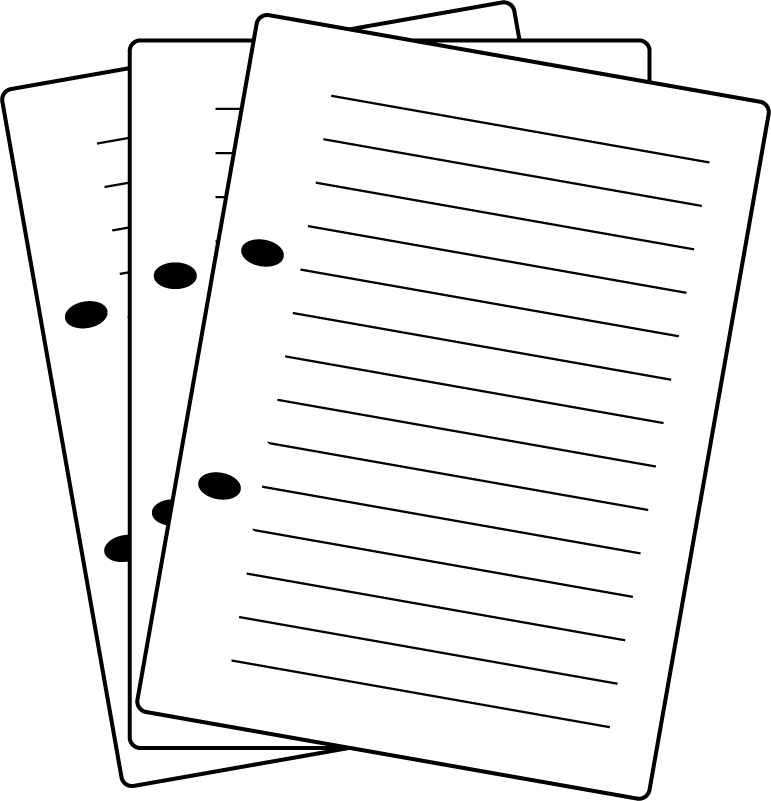
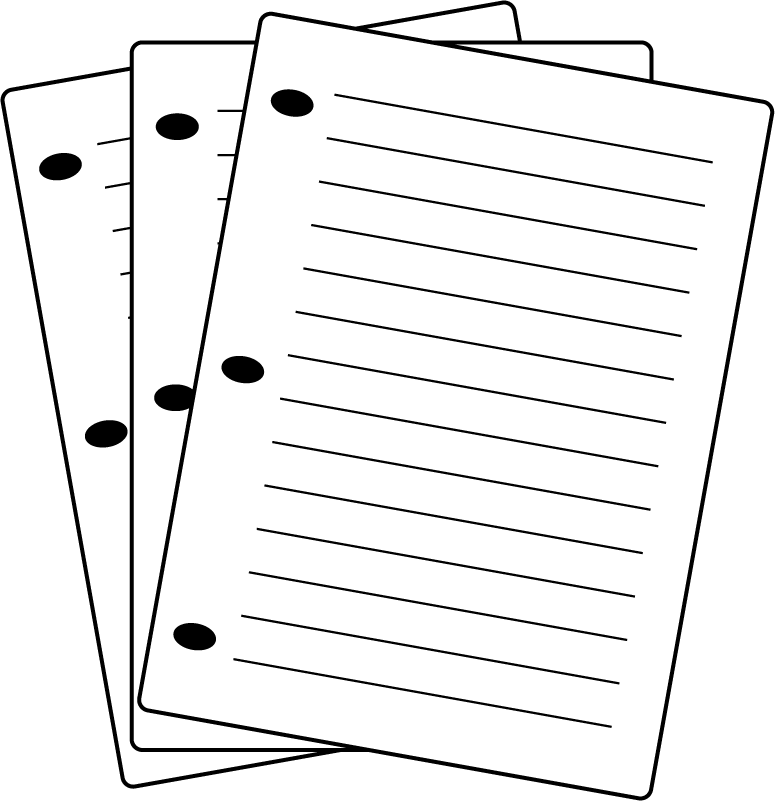
Completely fixed game to be a new resolution of 1440x960 instead of 1200x800.  Both work.

diff --git a/stable_items.py b/stable_items.py
@@ -661,12 +661,28 @@ class Stable_Items():
         """Function to draw the papers to the screen"""
 
         # Clickboxes
-        self.papers_page1_list = [(427, 49), (841, 121), (740, 681), (327, 607)]
-        self.papers_page2_list = [(322, 68), (743, 68), (743, 642), (322, 642)]
-        self.papers_page3_list = [(217, 110), (629, 37), (729, 596), (315, 673)]
-        #self.papers_page1_clickbox = pygame.draw.polygon(screen, gs.clickboxcolor, papers_page1_list, 1)
-        #self.papers_page2_clickbox = pygame.draw.polygon(screen, gs.clickboxcolor, papers_page2_list, 1)
-        #self.papers_page3_clickbox = pygame.draw.polygon(screen, gs.clickboxcolor, papers_page3_list, 1)
+        if gs.screen_width == 1200:
+            self.papers_page1_list = [(427, 49), (841, 121), (740, 681), (327, 607)]
+            self.papers_page2_list = [(322, 68), (743, 68), (743, 642), (322, 642)]
+            self.papers_page3_list = [(217, 110), (629, 37), (729, 596), (315, 673)]
+            self.papers_page1_clickbox = pygame.draw.polygon(screen, gs.clickboxcolor, self.papers_page1_list, 1)
+            self.papers_page2_clickbox = pygame.draw.polygon(screen, gs.clickboxcolor, self.papers_page2_list, 1)
+            self.papers_page3_clickbox = pygame.draw.polygon(screen, gs.clickboxcolor, self.papers_page3_list, 1)
+            x_spacing = 530
+            line_spacing = 150
+            line_spacing_3 = 95
+            x_spacing_3 = 325
+        else:
+            self.papers_page1_list = [(536, 125), (938, 198), (838, 748), (436, 675)]
+            self.papers_page2_list = [(431, 148), (839, 148), (842, 706), (432, 708)]
+            self.papers_page3_list = [(327, 189), (729, 117), (827, 664), (426, 736)]
+            self.papers_page1_clickbox = pygame.draw.polygon(screen, gs.red, self.papers_page1_list, 1)
+            self.papers_page2_clickbox = pygame.draw.polygon(screen, gs.red, self.papers_page2_list, 1)
+            self.papers_page3_clickbox = pygame.draw.polygon(screen, gs.red, self.papers_page3_list, 1)
+            x_spacing = 722
+            line_spacing = 220
+            line_spacing_3 = 172
+            x_spacing_3 = 425
 
         if gs.current_paper_in_view == 1:
             gs.text = 'What does this stuff mean?'
@@ -686,10 +702,10 @@ class Stable_Items():
                     'check out:', str(gs.random_channel)
                     ]
 
-            line_spacing = 150
-            x_spacing = 530
+            #line_spacing = 150
+
             text_height = gs.verdana22.get_height()
-            angle = 9
+            angle = 10
 
             for text in texts:
                 text_image = gs.verdana22.render(text, True, gs.black)
@@ -707,7 +723,7 @@ class Stable_Items():
             scaled_papers = gf.aspect_scale(enlarged_papers_top2, 625)
             screen.blit(scaled_papers, (sdx - scaled_papers.get_width() // 2, sdy - scaled_papers.get_height() // 2 ))
 
-            board = puzzles.get_board(gs, screen, 10, gs.pua_double_digits)
+            puzzles.get_board(gs, screen, 10, gs.pua_double_digits)
 
         if gs.current_paper_in_view == 3:
             gs.text = 'What?'
@@ -732,18 +748,17 @@ class Stable_Items():
                     'without diamonds'
                     ]
 
-            line_spacing = 95
-            x_spacing = 325
+
             text_height = gs.verdana22.get_height()
-            angle = 5
+            angle = 12
 
             for text in texts:
                 text_image = gs.times20.render(text, True, gs.black)
                 text_image = pygame.transform.rotate(text_image, angle)
-                screen.blit(text_image, (x_spacing, line_spacing))
-                line_spacing += text_height
-                x_spacing += 11
-                angle += 2.5
+                screen.blit(text_image, (x_spacing_3, line_spacing_3))
+                line_spacing_3 += text_height
+                x_spacing_3 += 12
+                #angle += 2.5
 
 
     def change_papers(self, gs, event):

diff --git a/captive.py b/captive.py
@@ -843,9 +843,9 @@ def run_game():
         gs.text = "What the...?  Where am I?"
         gs.game_start_time = pygame.time.get_ticks()
         gs.new_game = False
-        #gs.safe_opened = True
-        #gs.safe_uncovered = True
-        #gs.safe_on = True
+        gs.safe_opened = True
+        gs.safe_uncovered = True
+        gs.safe_on = True
         print('starting completely new game')
     else:
         gs.game_start_time = pygame.time.get_ticks()

diff --git a/inventory.py b/inventory.py
@@ -21,7 +21,7 @@ i_green_key = 'images/green_key.png' # Desk Drawer Key >> Green Key
 i_remote = 'images/remote.png' # Remote
 i_batteries = 'images/batteries.png' # Batteries
 i_power_cord = 'images/power_cord.png' # Power Cord
-i_papers = 'images/papers.png' # Papers
+i_papers = 'images/papers_1top.png' # Papers
 i_red_book = 'images/red_book.png' # Red Book
 i_blue_book = 'images/blue_book.png' # Blue Book
 i_shirt = 'images/shirt_no_hang.png' # Shirt

diff --git a/puzzles.py b/puzzles.py
@@ -37,7 +37,10 @@ def get_board(gs, screen, n, list):
     rev_board = [numbers_string[i:i+n][::-1] for i in range(0, len(numbers_string), n)]
 
     # Generate the board to the screen
-    start = 378
+    if gs.screen_width == 1200:
+        start = 378
+    else:
+        start = 478
     for line in reversed(rev_board):
         end = 208
         start += 30
